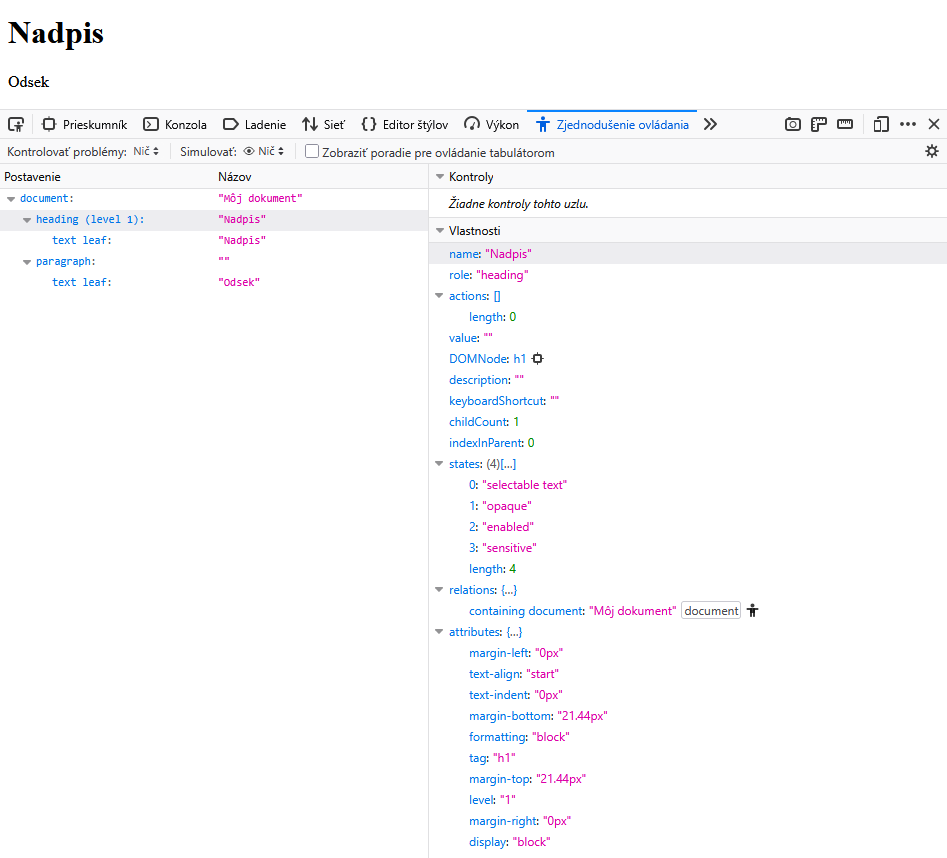
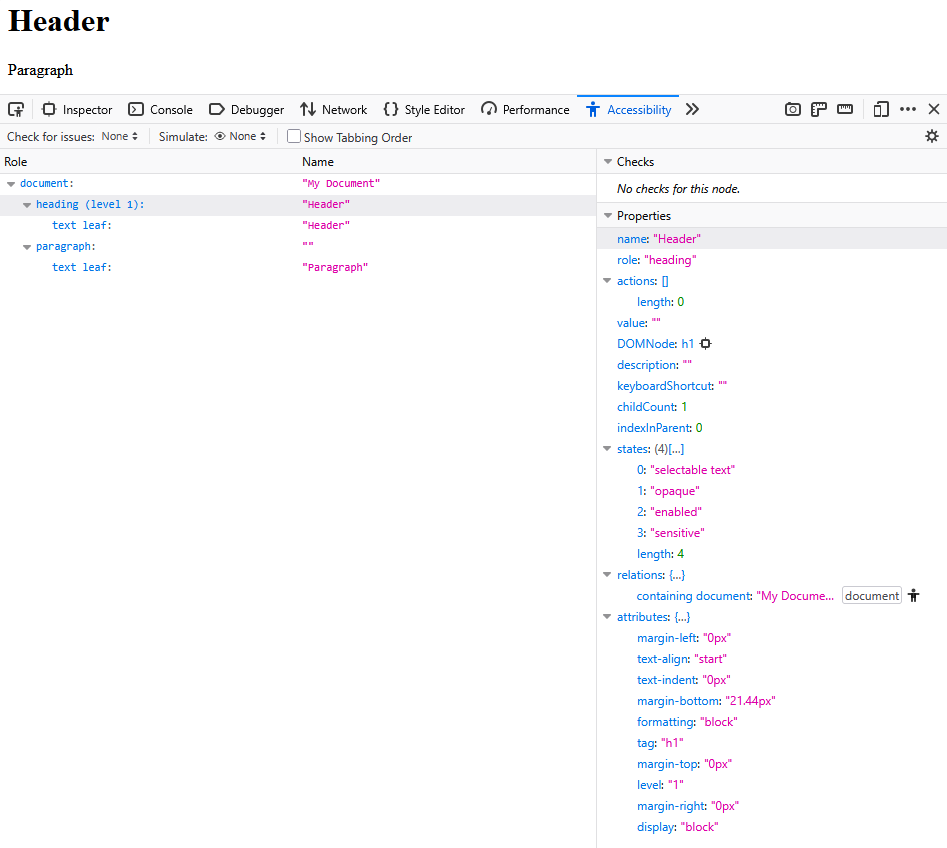
Replace placeholder screenshot with the English one
Swaps in the real English-language Firefox DevTools Accessibility
panel screenshot and drops the alt/figcaption notes that flagged it
as a temporary Slovak placeholder.

diff --git a/blog/source-code-to-screen-reader/index.html b/blog/source-code-to-screen-reader/index.html
@@ -799,9 +799,9 @@ paragraph
 
           <figure class="diagram">
             <div class="diagram-frame">
-              <img src="img/firefox-devtools.png" width="947" height="858" loading="lazy" decoding="async" alt="The Accessibility panel in Firefox DevTools with the heading (level 1) object selected: role “heading”, name “Nadpis”, source element h1, and other properties and states. The panel's interface is shown in Slovak in this screenshot; it will be replaced with an English one.">
+              <img src="img/firefox-devtools.png" width="947" height="848" loading="lazy" decoding="async" alt="The Accessibility panel in Firefox DevTools with the heading (level 1) object selected: role “heading”, name “Header”, source element h1, and other properties and states.">
             </div>
-            <figcaption>The Accessibility panel in Firefox DevTools with the computed role, name, states and other properties for the heading object. (Screenshot currently shown in Slovak — it will be replaced with an English version.)</figcaption>
+            <figcaption>The Accessibility panel in Firefox DevTools with the computed role, name, states and other properties for the heading object.</figcaption>
           </figure>
 
           <p>A view like this lets you check, during diagnosis, not just the HTML itself but also the resulting role, accessible name, description, states, and other properties the browser computed and exposes for the object.</p>
